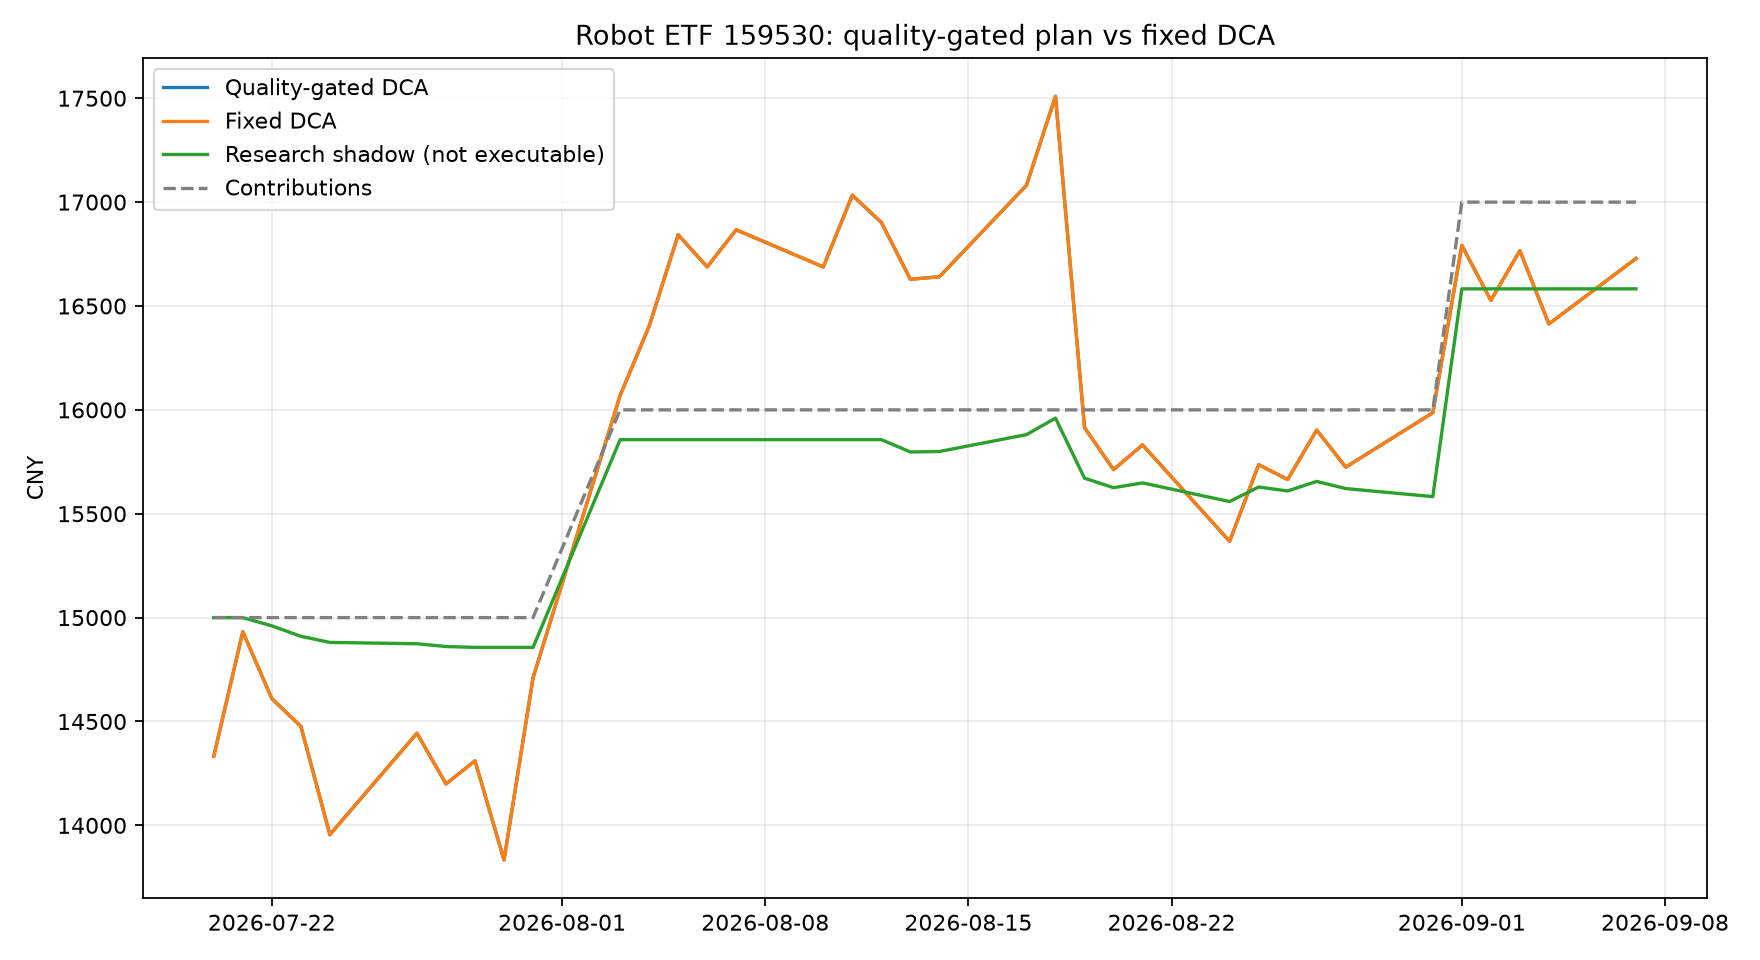
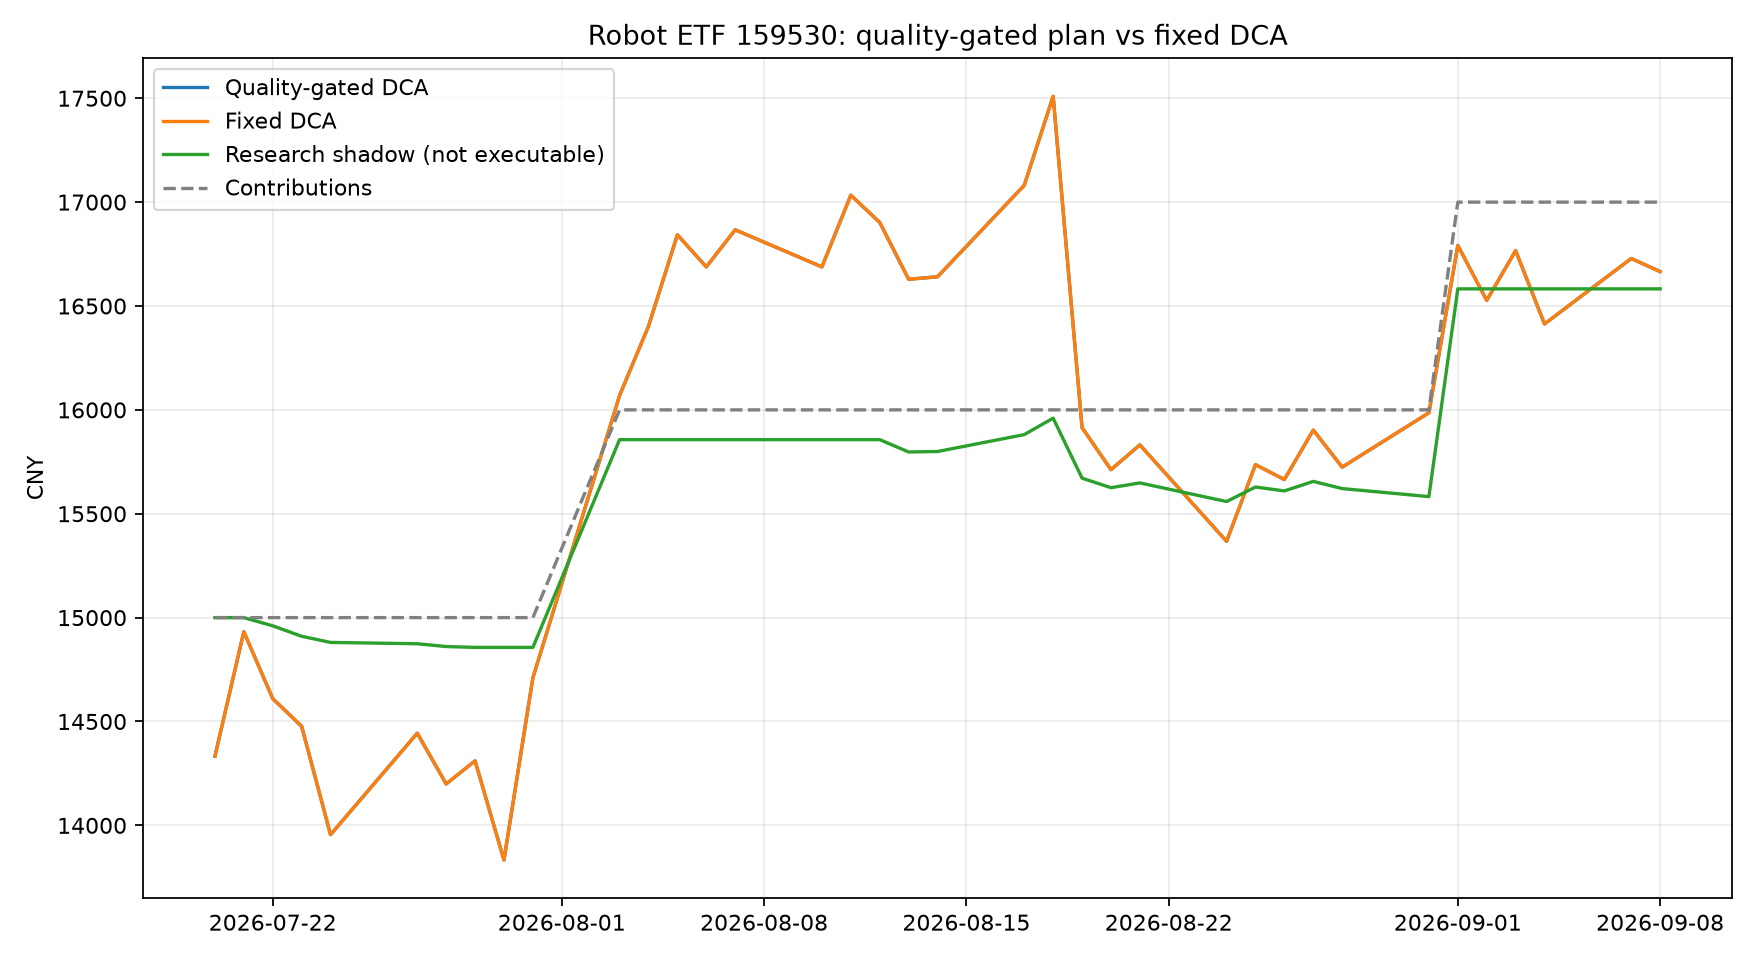
chore: update daily simulation

diff --git a/reports/latest.md b/reports/latest.md
@@ -1,15 +1,15 @@
 # 机器人ETF模拟账户日报
 
-数据日期：**2026-09-07**
+数据日期：**2026-09-08**
 
 标的：机器人ETF易方达（159530）
 
-最新收盘价：**¥1.3230**
+最新收盘价：**¥1.3180**
 
 ## 未来10日相对沪深300研究信号
 
-- 逻辑回归原始分数：**56.76%**
-- 向50%收缩25%后，未来10个交易日跑赢沪深300的预测概率型分数：**51.69%**
+- 逻辑回归原始分数：**56.08%**
+- 向50%收缩25%后，未来10个交易日跑赢沪深300的预测概率型分数：**51.52%**
 - 模型原始研究仓位：**50%**（不可执行）
 - 当前使用模型：`shrunk_logistic_regression`
 - 当前状态：**仅观察，不可用于自动调仓**
@@ -19,13 +19,13 @@
 - 可执行目标仓位：**100%**
 - 执行政策：**固定定投是唯一可执行模拟**；模型尚未获得仓位控制权。
 - 门控原因：回顾性挑战者尚未用新增数据证明长期优于固定定投；逐日成熟样本门控未通过：最近成熟窗口未同时通过Brier<0.25与AUC>0.5；当前样本外验证状态：unstable
-- 逐日成熟样本门控：**未通过**；最近成熟样本50条，Brier=0.2523，AUC=0.5747；最近成熟窗口未同时通过Brier<0.25与AUC>0.5
+- 逐日成熟样本门控：**未通过**；最近成熟样本50条，Brier=0.2518，AUC=0.5491；最近成熟窗口未同时通过Brier<0.25与AUC>0.5
 - 不可执行影子目标仓位：**0%**。
 
 ## 基线优先门控
 
 - 候选模型：**回顾性挑战者** `trend_risk_logistic_v3`；它是在查看既有历史后提出的候选，只能用未来新增数据继续验证。
-- 模型研究概率：**51.69%**；批准概率固定为**50.00%**，表示当前没有可执行优势。
+- 模型研究概率：**51.52%**；批准概率固定为**50.00%**，表示当前没有可执行优势。
 - 本月训练集内部隔离验证：样本2250条，Brier=0.2492，AUC=0.5188，**通过**。
 - 策略结论：**模型未通过质量门控，当前不具备可验证的交易Alpha**。
 
@@ -37,15 +37,15 @@
 
 | 特征 | 当前值 | 训练P1 | 训练P99 | 判定 |
 |---|---:|---:|---:|---|
-| 5日收益 | -1.44% | -12.41% | 11.89% | 范围内 |
-| 20日收益 | -5.58% | -24.38% | 25.37% | 范围内 |
-| 60日收益 | -13.51% | -29.34% | 41.42% | 范围内 |
-| 距20日均线 | -2.14% | -15.05% | 12.90% | 范围内 |
-| 距60日均线 | -7.46% | -20.62% | 21.56% | 范围内 |
-| 20日年化波动 | 42.75% | 11.95% | 82.39% | 范围内 |
-| 成交量/20日均量 | 0.88倍 | 0.53倍 | 1.76倍 | 范围内 |
-| 20日相对强弱 | -2.87% | -12.50% | 15.92% | 范围内 |
-| 沪深300距120日均线 | -3.25% | -20.33% | 17.67% | 范围内 |
+| 5日收益 | -0.86% | -12.41% | 11.89% | 范围内 |
+| 20日收益 | -8.08% | -24.38% | 25.37% | 范围内 |
+| 60日收益 | -17.03% | -29.34% | 41.42% | 范围内 |
+| 距20日均线 | -2.32% | -15.05% | 12.90% | 范围内 |
+| 距60日均线 | -7.73% | -20.62% | 21.56% | 范围内 |
+| 20日年化波动 | 41.85% | 11.95% | 82.39% | 范围内 |
+| 成交量/20日均量 | 0.77倍 | 0.53倍 | 1.76倍 | 范围内 |
+| 20日相对强弱 | -5.82% | -12.50% | 15.92% | 范围内 |
+| 沪深300距120日均线 | -3.58% | -20.33% | 17.67% | 范围内 |
 
 ### 模型条件预测门控
 
@@ -55,7 +55,7 @@
 |---|---:|---|---|
 | 5日 | 40 | 未通过历史验证 | 预测未同时击败零收益MAE基线并达到高于50%的方向准确率，收益预测已停用 |
 | 10日 | 40 | 未通过历史验证 | 预测未同时击败零收益MAE基线并达到高于50%的方向准确率，收益预测已停用 |
-| 20日 | 40 | 未通过历史验证 | 预测未同时击败零收益MAE基线并达到高于50%的方向准确率，收益预测已停用 |
+| 20日 | 36 | 未通过历史验证 | 预测未同时击败零收益MAE基线并达到高于50%的方向准确率，收益预测已停用 |
 
 当前模型数值全部停用，已隐藏无效的“不可用”空表；门控恢复后，收益、目标价与风险表会自动重新出现。
 
@@ -109,12 +109,12 @@
 
 模型证据状态：**分段表现不稳定**。
 
-- 已实现的收缩后研究分数样本：**2444**。
-- 全部重叠日标签的描述性方向准确率：**50.82%**。
+- 已实现的收缩后研究分数样本：**2445**。
+- 全部重叠日标签的描述性方向准确率：**50.80%**。
 - 每隔10个交易日抽取一次的近似非重叠样本：**245**；方向准确率：**51.43%**；Wilson 95%区间：**45.20% ～ 57.62%**。
 - 收缩后概率型分数Brier：**0.2496**；原始模型：**0.2520**；固定50%概率基线：**0.2500**。Brier越低越好。
 - Brier技能分数：**0.17%**（高于0才表示击败50%基线）；分段稳定性通过：**否**。
-- ROC AUC：**0.5104**；0.5约等于随机排序。
+- ROC AUC：**0.5102**；0.5约等于随机排序。
 
 ### 模型分段稳定性
 
@@ -129,7 +129,7 @@
 | 固定分段 | 2025-11-07 | 2026-01-19 | 50 | 0.2440 | 0.6783 | 通过 |
 | 固定分段 | 2026-01-20 | 2026-04-08 | 50 | 0.2464 | 0.5385 | 通过 |
 | 固定分段 | 2026-04-09 | 2026-06-23 | 50 | 0.2445 | 0.6007 | 通过 |
-| 固定分段 | 2026-06-24 | 2026-08-24 | 44 | 0.2527 | 0.6795 | 失败 |
+| 固定分段 | 2026-06-24 | 2026-08-25 | 45 | 0.2529 | 0.6893 | 失败 |
 
 ### 市场环境稳定性
 
@@ -140,7 +140,7 @@
 | 上涨/低波动 | 1126 | 0.2501 | 0.5060 | 失败 |
 | 上涨/高波动 | 261 | 0.2469 | 0.6056 | 通过 |
 | 下跌/低波动 | 888 | 0.2504 | 0.4724 | 失败 |
-| 下跌/高波动 | 169 | 0.2456 | 0.5463 | 通过 |
+| 下跌/高波动 | 170 | 0.2457 | 0.5477 | 通过 |
 
 ### 零收益基线门控
 
@@ -148,7 +148,7 @@
 
 | 预测期 | 独立验证样本 | 中位预测MAE | 零收益基线MAE | 方向准确率 | 10%～90%区间覆盖率 | 门控状态 |
 |---|---:|---:|---:|---:|---:|---|
-| 5日 | 336 | 3.44% | 3.31% | 47.92% | 70.54% | 未击败零收益基线 |
+| 5日 | 337 | 3.43% | 3.31% | 48.07% | 70.62% | 未击败零收益基线 |
 | 10日 | 153 | 4.94% | 4.84% | 50.33% | 66.01% | 未击败零收益基线 |
 | 20日 | 60 | 7.48% | 7.27% | 58.33% | 70.00% | 未击败零收益基线 |
 
@@ -158,19 +158,19 @@
 
 | 账户 | 累计投入 | 当前市值 | 净盈亏 | 资金收益率 | 最大回撤 |
 |---|---:|---:|---:|---:|---:|
-| 质量门控定投 | ¥17,000.00 | ¥16,728.64 | ¥-271.36 | -1.60% | -12.23% |
-| 固定定投 | ¥17,000.00 | ¥16,728.64 | ¥-271.36 | -1.60% | -12.23% |
+| 质量门控定投 | ¥17,000.00 | ¥16,665.64 | ¥-334.36 | -1.97% | -12.23% |
+| 固定定投 | ¥17,000.00 | ¥16,665.64 | ¥-334.36 | -1.97% | -12.23% |
 | 质量门控影子策略（不可执行） | ¥17,000.00 | ¥16,582.50 | ¥-417.50 | -2.46% | -2.82% |
 
 质量门控定投相对固定定投的市值差：**¥0.00**
 
-影子Alpha（影子策略相对固定定投的市值差）：**¥-146.14**。样本仅**36**个交易日，门控通过15日、实际持仓15日，当前只用于检验规则是否可能创造避险或超额收益。
+影子Alpha（影子策略相对固定定投的市值差）：**¥-83.14**。样本仅**37**个交易日，门控通过15日、实际持仓15日，当前只用于检验规则是否可能创造避险或超额收益。
 
 ![累计市值对比](performance.png)
 
 ## 数据口径与来源
 
-- 模型特征与收益验证：`cnindex_official_980022`，覆盖2015-01-05至2026-09-07，共2839条。
+- 模型特征与收益验证：`cnindex_official_980022`，覆盖2015-01-05至2026-09-08，共2840条。
 - ETF交易模拟：`tencent_qfq_sz159530`。
 - 市场基准：`tencent_qfq_sh000300`。
 - 预估收益验证使用机器人指数，ETF价格只用于账户和参考价换算；两者的跟踪偏差仍是限制。

diff --git a/reports/robot_chain_latest.md b/reports/robot_chain_latest.md
@@ -1,6 +1,6 @@
 # 机器人产业链个股纸面账户日报
 
-数据日期：**2026-09-07**
+数据日期：**2026-09-08**
 
 状态：**运行中**；只做模拟，不连接券商。
 
@@ -8,9 +8,9 @@
 
 | 初始资金 | 当前市值 | 累计盈亏 | 收益率 | 最大回撤 | 现金 |
 |---:|---:|---:|---:|---:|---:|
-| ¥50,000.00 | ¥47,462.93 | ¥-2,537.07 | -5.07% | -7.61% | ¥47,411.65 |
+| ¥50,000.00 | ¥47,461.64 | ¥-2,538.36 | -5.08% | -7.61% | ¥47,411.65 |
 
-- 股票市值：¥51.28（0.11%）
+- 股票市值：¥49.99（0.11%）
 - 累计佣金：¥255.00；累计滑点：¥25.88
 - 今日模拟动作：**002747连续3日跌破20日均线，减半；300024连续3日跌破20日均线，减半；002698连续3日跌破20日均线，减半；603486连续3日跌破20日均线，减半**
 
@@ -18,12 +18,12 @@
 
 | 代码 | 公司 | 产业链 | 股数 | 收盘价 | 市值 | 高于20日均线 |
 |---:|---|---|---:|---:|---:|---|
-| 002472 | 双环传动 | 上游 | 0 | ¥37.62 | ¥0.00 | 是 |
-| 603728 | 鸣志电器 | 上游 | 1 | ¥51.28 | ¥51.28 | 是 |
-| 002747 | 埃斯顿 | 中游 | 0 | ¥30.58 | ¥0.00 | 否 |
-| 300024 | 机器人 | 中游 | 0 | ¥14.37 | ¥0.00 | 否 |
-| 002698 | 博实股份 | 下游 | 0 | ¥11.97 | ¥0.00 | 否 |
-| 603486 | 科沃斯 | 下游 | 0 | ¥52.64 | ¥0.00 | 否 |
+| 002472 | 双环传动 | 上游 | 0 | ¥37.06 | ¥0.00 | 是 |
+| 603728 | 鸣志电器 | 上游 | 1 | ¥49.99 | ¥49.99 | 是 |
+| 002747 | 埃斯顿 | 中游 | 0 | ¥30.23 | ¥0.00 | 否 |
+| 300024 | 机器人 | 中游 | 0 | ¥14.33 | ¥0.00 | 否 |
+| 002698 | 博实股份 | 下游 | 0 | ¥11.99 | ¥0.00 | 否 |
+| 603486 | 科沃斯 | 下游 | 0 | ¥52.26 | ¥0.00 | 否 |
 
 ## 风险规则
 
